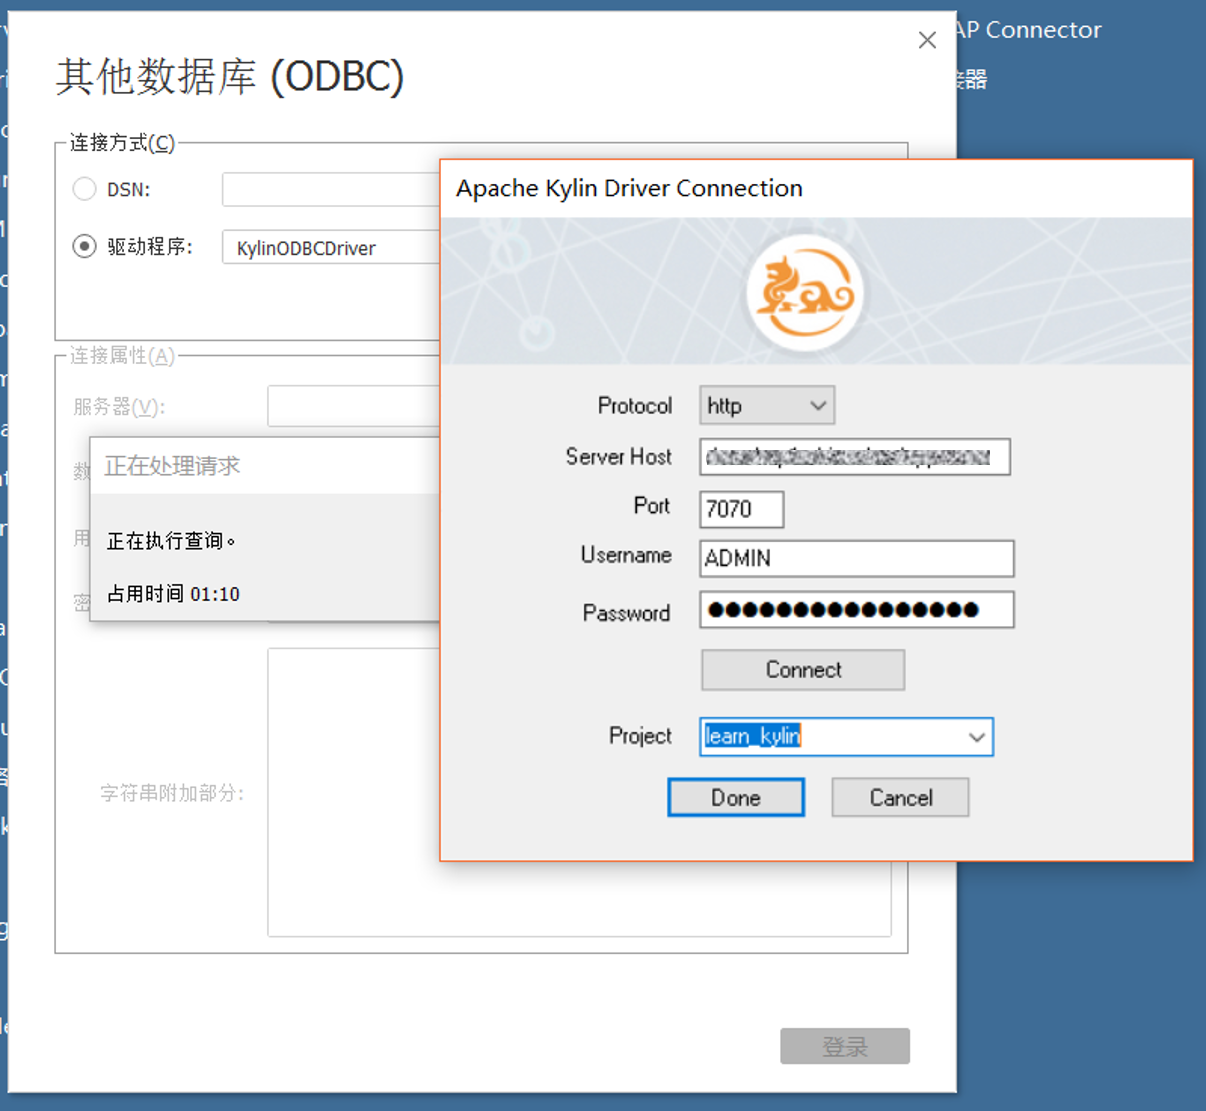
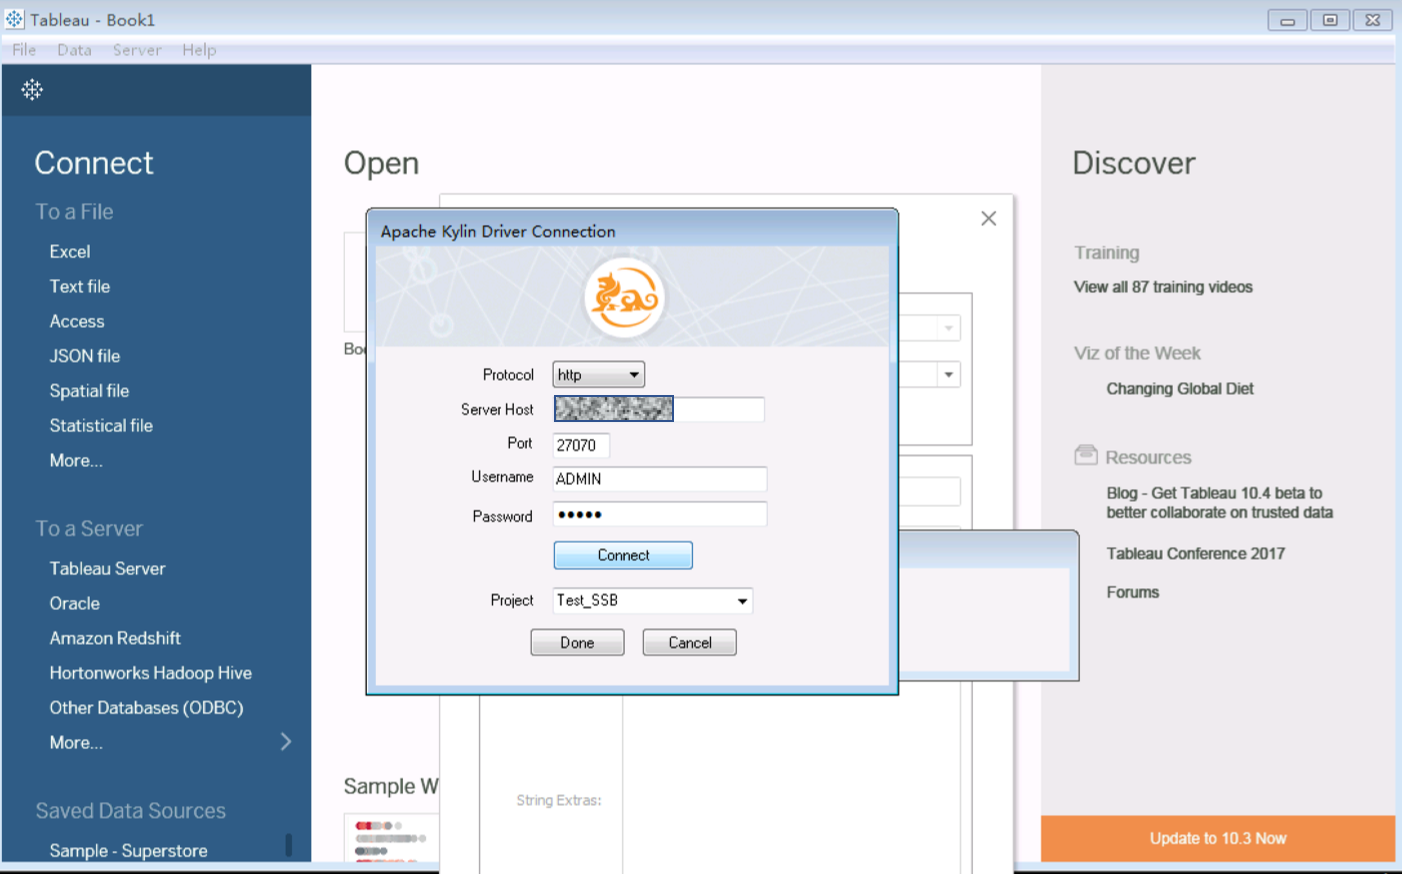
update tableau_integration

diff --git a/en/integration/tableau_10.en.md b/en/integration/tableau_10.en.md
@@ -6,14 +6,10 @@ Refer to this guide: [Kylin ODBC Driver Tutorial](driver/odbc.en.md).
 Please make sure to download and install Kylin ODBC Driver v1.5. If you already installed ODBC Driver in your system, please uninstall it first.  
 
 ### Connect to Kylin Server
-Connect Using Driver: Start Tableau 9.1 desktop, click `Other Database(ODBC)` in the left panel and choose KylinODBCDriver in the pop-up window. 
+Connect Using Driver: Start Tableau 10.1 desktop, click `Other Database(ODBC)` in the left panel and choose KylinODBCDriver in the pop-up window. 
 
 
-![](images/tableau_10/step1.PNG)
-
-![](images/tableau_10/step2.PNG)
-
-
+![](images/tableau_9/1.png)
 
 Provide your Sever location, credentials and project. Clicking `Connect` button, you can get the list of projects that you have permission to access, see details at [Kylin Cube Permission Grant Tutorial](./acl.html).
 
@@ -25,24 +21,12 @@ In left panel, select `defaultCatalog` as Database, click `Search` button in Tab
 
 ![](images/tableau_10/step5.PNG)
 
-
-![](images/tableau_10/step11.PNG)
-
-
-
-![](images/tableau_10/step12.PNG)
-
 ### Connect Live
 
 There are two types of Connection in Tableau 10.1, choose the Live option to make sure using Connect Live mode.
 
-![](images/tableau_10/step9.PNG)
-
 ### Custom SQL
 To use customized SQL, click `New Custom SQL` in left panel and type SQL statement in pop-up dialog.
-![](images/tableau_10/step10.PNG)
-
-
 
 ### Visualization
 
@@ -51,6 +35,5 @@ Now you can start to enjou analyzing with Tableau 10.1.
 
 ### Publish to Tableau Server
 If you want to publish local dashboards to a Tableau Server, just expand `Server` menu and select `Publish Workbook`.
-![](images/tableau_10/step14.PNG)
 
 
